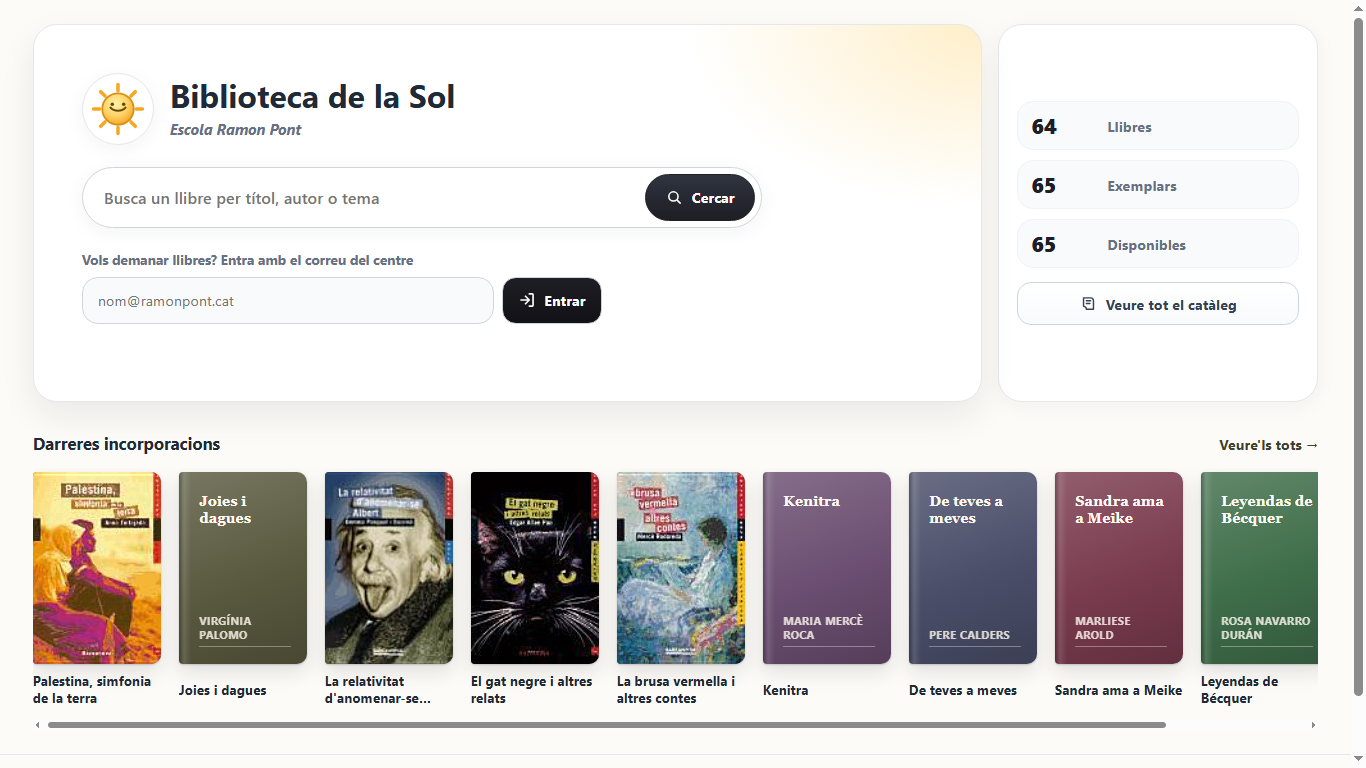
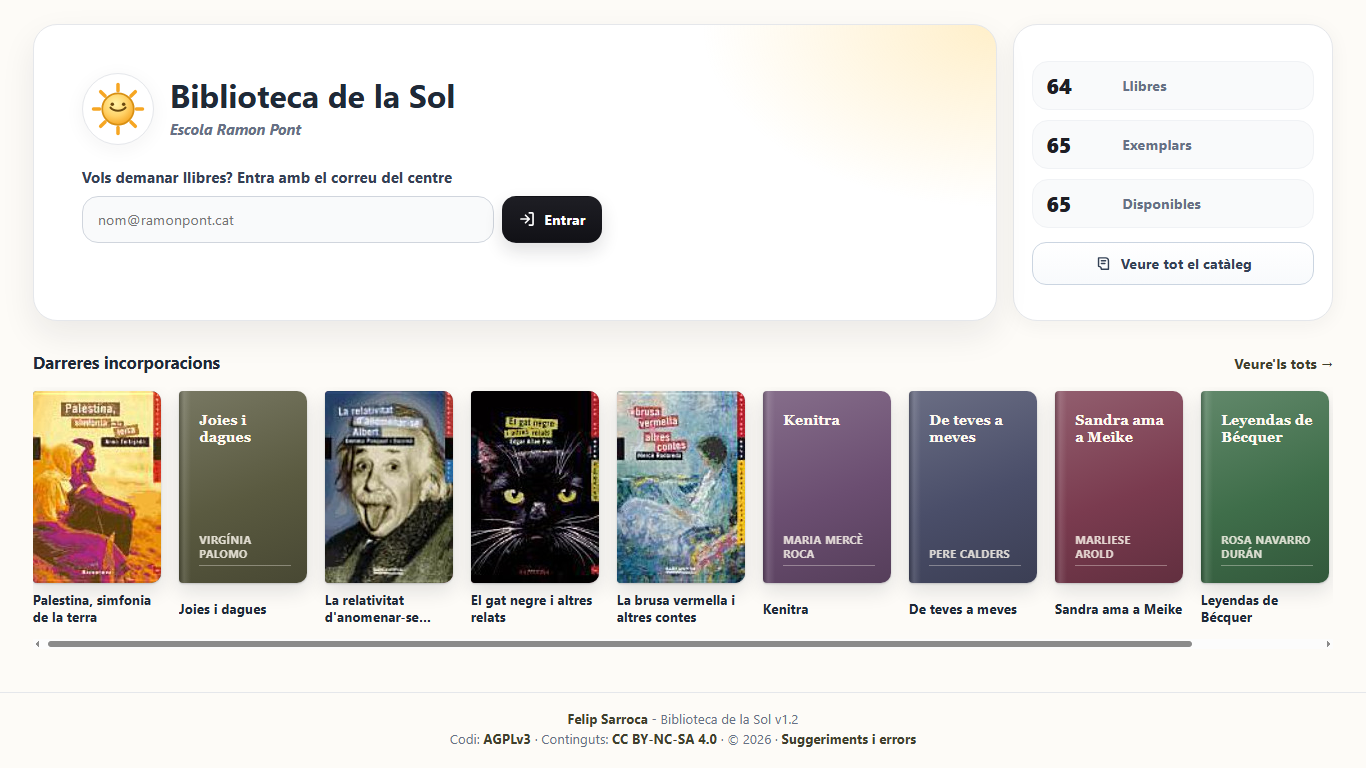
Biblioteca de la Sol v1.2: portada sense cercador, amb l'accés com a acció principal

diff --git a/BibliotecaSol/index.html b/BibliotecaSol/index.html
@@ -5,11 +5,11 @@
     <meta name="viewport" content="width=device-width, initial-scale=1">
     <title>Biblioteca de la Sol - Escola Ramon Pont</title>
     <link rel="icon" href="assets/logo-sol.svg" type="image/svg+xml">
-    <link rel="stylesheet" href="css/styles.css?v=1.1">
-    <script src="js/config.js?v=1.1" defer></script>
-    <script src="js/supabaseClient.js?v=1.1" defer></script>
-    <script src="js/shared.js?v=1.1" defer></script>
-    <script src="js/cataleg.js?v=1.1" defer></script>
+    <link rel="stylesheet" href="css/styles.css?v=1.2">
+    <script src="js/config.js?v=1.2" defer></script>
+    <script src="js/supabaseClient.js?v=1.2" defer></script>
+    <script src="js/shared.js?v=1.2" defer></script>
+    <script src="js/cataleg.js?v=1.2" defer></script>
   </head>
   <body class="home-page">
     <main class="home-shell">
@@ -23,17 +23,11 @@
             </div>
           </div>
 
-          <form id="home-search" class="home-search" role="search">
-            <label for="home-search-input" class="visually-hidden">Cerca un llibre</label>
-            <input id="home-search-input" name="q" type="search" autocomplete="off" placeholder="Busca un llibre per títol, autor o tema">
-            <button class="button icon-search" type="submit">Cercar</button>
-          </form>
-
           <form id="home-login-form" class="home-login-form">
             <label for="home-email">Vols demanar llibres? Entra amb el correu del centre</label>
             <div class="search-row">
               <input id="home-email" name="email" type="email" autocomplete="email" required placeholder="nom@ramonpont.cat">
-              <button class="button button-secondary icon-login" type="submit">Entrar</button>
+              <button class="button icon-login" type="submit">Entrar</button>
             </div>
             <p id="home-login-message" class="form-message" role="status"></p>
           </form>
@@ -68,7 +62,7 @@
     </main>
 
     <footer class="site-footer">
-      <p><a href="https://ja.cat/felipsarroca">Felip Sarroca</a> - Biblioteca de la Sol v1.1</p>
+      <p><a href="https://ja.cat/felipsarroca">Felip Sarroca</a> - Biblioteca de la Sol v1.2</p>
       <p>Codi: <a href="https://github.com/felipsarroca/util-apps/blob/main/BibliotecaSol/LICENSE.txt" rel="noopener">AGPLv3</a> · Continguts: <a href="https://creativecommons.org/licenses/by-nc-sa/4.0/deed.ca" rel="noopener">CC BY-NC-SA 4.0</a> · © 2026 · <a href="https://github.com/felipsarroca/util-apps/issues/new?template=biblioteca-sol.yml" rel="noopener">Suggeriments i errors</a></p>
     </footer>
   </body>

diff --git a/BibliotecaSol/editor.html b/BibliotecaSol/editor.html
@@ -5,11 +5,11 @@
     <meta name="viewport" content="width=device-width, initial-scale=1">
     <title>Gestió - Biblioteca de la Sol</title>
     <link rel="icon" href="assets/logo-sol.svg" type="image/svg+xml">
-    <link rel="stylesheet" href="css/styles.css?v=1.1">
-    <script src="js/config.js?v=1.1" defer></script>
-    <script src="js/supabaseClient.js?v=1.1" defer></script>
-    <script src="js/shared.js?v=1.1" defer></script>
-    <script src="js/editor.js?v=1.1" defer></script>
+    <link rel="stylesheet" href="css/styles.css?v=1.2">
+    <script src="js/config.js?v=1.2" defer></script>
+    <script src="js/supabaseClient.js?v=1.2" defer></script>
+    <script src="js/shared.js?v=1.2" defer></script>
+    <script src="js/editor.js?v=1.2" defer></script>
   </head>
   <body data-requires-manager="true">
     <header class="site-header">
@@ -271,7 +271,7 @@
     </dialog>
 
     <footer class="site-footer">
-      <p><a href="https://ja.cat/felipsarroca">Felip Sarroca</a> - Biblioteca de la Sol v1.1</p>
+      <p><a href="https://ja.cat/felipsarroca">Felip Sarroca</a> - Biblioteca de la Sol v1.2</p>
       <p>Codi: <a href="https://github.com/felipsarroca/util-apps/blob/main/BibliotecaSol/LICENSE.txt" rel="noopener">AGPLv3</a> · Continguts: <a href="https://creativecommons.org/licenses/by-nc-sa/4.0/deed.ca" rel="noopener">CC BY-NC-SA 4.0</a> · © 2026 · <a href="https://github.com/felipsarroca/util-apps/issues/new?template=biblioteca-sol.yml" rel="noopener">Suggeriments i errors</a></p>
     </footer>
   </body>

diff --git a/BibliotecaSol/cataleg.html b/BibliotecaSol/cataleg.html
@@ -5,11 +5,11 @@
     <meta name="viewport" content="width=device-width, initial-scale=1">
     <title>Catàleg - Biblioteca de la Sol</title>
     <link rel="icon" href="assets/logo-sol.svg" type="image/svg+xml">
-    <link rel="stylesheet" href="css/styles.css?v=1.1">
-    <script src="js/config.js?v=1.1" defer></script>
-    <script src="js/supabaseClient.js?v=1.1" defer></script>
-    <script src="js/shared.js?v=1.1" defer></script>
-    <script src="js/cataleg.js?v=1.1" defer></script>
+    <link rel="stylesheet" href="css/styles.css?v=1.2">
+    <script src="js/config.js?v=1.2" defer></script>
+    <script src="js/supabaseClient.js?v=1.2" defer></script>
+    <script src="js/shared.js?v=1.2" defer></script>
+    <script src="js/cataleg.js?v=1.2" defer></script>
   </head>
   <body>
     <header class="site-header">
@@ -102,7 +102,7 @@
     </main>
 
     <footer class="site-footer">
-      <p><a href="https://ja.cat/felipsarroca">Felip Sarroca</a> - Biblioteca de la Sol v1.1</p>
+      <p><a href="https://ja.cat/felipsarroca">Felip Sarroca</a> - Biblioteca de la Sol v1.2</p>
       <p>Codi: <a href="https://github.com/felipsarroca/util-apps/blob/main/BibliotecaSol/LICENSE.txt" rel="noopener">AGPLv3</a> · Continguts: <a href="https://creativecommons.org/licenses/by-nc-sa/4.0/deed.ca" rel="noopener">CC BY-NC-SA 4.0</a> · © 2026 · <a href="https://github.com/felipsarroca/util-apps/issues/new?template=biblioteca-sol.yml" rel="noopener">Suggeriments i errors</a></p>
     </footer>
   </body>

diff --git a/BibliotecaSol/login.html b/BibliotecaSol/login.html
@@ -5,11 +5,11 @@
     <meta name="viewport" content="width=device-width, initial-scale=1">
     <title>Accés - Biblioteca de la Sol</title>
     <link rel="icon" href="assets/logo-sol.svg" type="image/svg+xml">
-    <link rel="stylesheet" href="css/styles.css?v=1.1">
-    <script src="js/config.js?v=1.1" defer></script>
-    <script src="js/supabaseClient.js?v=1.1" defer></script>
-    <script src="js/shared.js?v=1.1" defer></script>
-    <script src="js/auth.js?v=1.1" defer></script>
+    <link rel="stylesheet" href="css/styles.css?v=1.2">
+    <script src="js/config.js?v=1.2" defer></script>
+    <script src="js/supabaseClient.js?v=1.2" defer></script>
+    <script src="js/shared.js?v=1.2" defer></script>
+    <script src="js/auth.js?v=1.2" defer></script>
   </head>
   <body>
     <header class="site-header">
@@ -73,7 +73,7 @@
     </main>
 
     <footer class="site-footer">
-      <p><a href="https://ja.cat/felipsarroca">Felip Sarroca</a> - Biblioteca de la Sol v1.1</p>
+      <p><a href="https://ja.cat/felipsarroca">Felip Sarroca</a> - Biblioteca de la Sol v1.2</p>
       <p>Codi: <a href="https://github.com/felipsarroca/util-apps/blob/main/BibliotecaSol/LICENSE.txt" rel="noopener">AGPLv3</a> · Continguts: <a href="https://creativecommons.org/licenses/by-nc-sa/4.0/deed.ca" rel="noopener">CC BY-NC-SA 4.0</a> · © 2026 · <a href="https://github.com/felipsarroca/util-apps/issues/new?template=biblioteca-sol.yml" rel="noopener">Suggeriments i errors</a></p>
     </footer>
   </body>

diff --git a/BibliotecaSol/css/styles.css b/BibliotecaSol/css/styles.css
@@ -3047,49 +3047,13 @@ body.has-request-bar .toast {
   margin: 0;
 }
 
-.home-search {
-  max-width: 680px;
-  display: grid;
-  grid-template-columns: minmax(0, 1fr) auto;
-  gap: 8px;
-  padding: 6px;
-  border: 1px solid var(--line-strong);
-  border-radius: 999px;
-  background: #ffffff;
-  box-shadow: var(--shadow-soft);
-}
-
-.home-search input {
-  min-height: 46px;
-  border: 0;
-  background: transparent;
-  font-size: 1.02rem;
-  font-weight: 600;
-}
-
-.home-search input:focus {
-  box-shadow: none;
-}
-
-.home-search:focus-within {
-  border-color: transparent;
-  box-shadow: 0 0 0 3px rgba(255, 209, 102, 0.6);
-}
-
-.home-search .button {
-  border-radius: 999px;
-  padding-inline: 1.2rem;
-  background: linear-gradient(180deg, #2f3440, #1e1e24);
-  box-shadow: none;
-}
-
 .home-login-form {
   max-width: 520px;
 }
 
 .home-login-form label {
-  color: var(--muted);
-  font-size: 0.85rem;
+  color: #344054;
+  font-size: 0.95rem;
 }
 
 .home-hero .summary-panel {
@@ -3176,15 +3140,6 @@ body.has-request-bar .toast {
 @media (max-width: 640px) {
   .home-hero {
     margin-top: 14px;
-  }
-
-  .home-search {
-    border-radius: 18px;
-    grid-template-columns: 1fr;
-  }
-
-  .home-search .button {
-    border-radius: 14px;
   }
 
   .home-hero .stats-grid {

diff --git a/BibliotecaSol/js/cataleg.js b/BibliotecaSol/js/cataleg.js
@@ -23,15 +23,6 @@
     document.getElementById("stat-copies").textContent = stats.copies;
     document.getElementById("stat-available").textContent = stats.available;
 
-    const searchForm = document.getElementById("home-search");
-    if (searchForm) {
-      searchForm.addEventListener("submit", (event) => {
-        event.preventDefault();
-        const query = searchForm.elements.q.value.trim();
-        window.location.href = `cataleg.html?mode=public${query ? `&q=${encodeURIComponent(query)}` : ""}`;
-      });
-    }
-
     const strip = document.getElementById("home-new");
     if (strip) {
       const latest = [...books]

diff --git a/BibliotecaSol/js/config.js b/BibliotecaSol/js/config.js
@@ -2,5 +2,5 @@ window.BIBLIOTECA_SOL_CONFIG = {
   allowedEmailDomain: "@ramonpont.cat",
   supabaseUrl: "https://jqabmywmbvvlacpzujup.supabase.co",
   supabaseAnonKey: "eyJhbGciOiJIUzI1NiIsInR5cCI6IkpXVCJ9.eyJpc3MiOiJzdXBhYmFzZSIsInJlZiI6ImpxYWJteXdtYnZ2bGFjcHp1anVwIiwicm9sZSI6ImFub24iLCJpYXQiOjE3NzgwODEyNTcsImV4cCI6MjA5MzY1NzI1N30.i1y_hnJJbLz2qxg512Y8QYc5ICpGV4FaP3_dr7FmYYY",
-  appVersion: "1.1"
+  appVersion: "1.2"
 };

diff --git a/BibliotecaSol/js/shared.js b/BibliotecaSol/js/shared.js
@@ -525,7 +525,7 @@
     }
     if (!helpScript) {
       helpScript = document.createElement("script");
-      helpScript.src = "js/ajuda.js?v=1.1";
+      helpScript.src = "js/ajuda.js?v=1.2";
       helpScript.addEventListener("load", () => window.BibliotecaSolAjuda && window.BibliotecaSolAjuda.open());
       helpScript.addEventListener("error", () => {
         helpScript.remove();

diff --git a/BibliotecaSol/README.md b/BibliotecaSol/README.md
@@ -6,7 +6,7 @@ Aplicació web per gestionar i consultar el catàleg de la biblioteca escolar de
 
 | Portada | Catàleg |
 |---|---|
-| ![Portada amb cercador, accés amb el correu del centre i darreres incorporacions](captures/portada.png) | ![Catàleg amb portades, filtres amb recompte i ordenació](captures/cataleg.png) |
+| ![Portada amb l'accés amb el correu del centre i darreres incorporacions](captures/portada.png) | ![Catàleg amb portades, filtres amb recompte i ordenació](captures/cataleg.png) |
 
 | Fitxa d'un llibre | Catàleg al mòbil |
 |---|---|
@@ -40,7 +40,7 @@ L'app té tres maneres d'accedir-hi:
 
 | Perfil | Com hi entra | Què pot fer |
 |---|---|---|
-| **Visitant** | Cercador o botó *Veure tot el catàleg* de la portada | Consultar el catàleg, cercar, filtrar, obrir les fitxes i descarregar la llista en PDF. No pot demanar llibres. |
+| **Visitant** | Botó *Veure tot el catàleg* de la portada | Consultar el catàleg, cercar, filtrar, obrir les fitxes i descarregar la llista en PDF. No pot demanar llibres. |
 | **Lector** (alumnat i professorat) | Escriu el seu correu `@ramonpont.cat` a la portada. No cal contrasenya. | Tot el que fa el visitant i, a més, triar llibres i enviar-ne la sol·licitud de préstec. |
 | **Gestor** (biblioteca) | Correu `biblioteca@ramonpont.cat` i contrasenya | Pantalla de **Gestió**: alta, edició i baixa de llibres, sol·licituds, préstecs, retards, historial i ajuda integrada. |
 
@@ -48,7 +48,7 @@ L'app té tres maneres d'accedir-hi:
 
 ### Catàleg (tots els perfils)
 
-- **Portada** amb un cercador, els comptadors de llibres, exemplars i disponibles, i les **darreres incorporacions**.
+- **Portada** amb l'accés amb el correu del centre, els comptadors de llibres, exemplars i disponibles, i les **darreres incorporacions**.
 - **Cerca** simultània en el títol, l'autor, l'editorial, l'ISBN, la col·lecció, l'edat, la temàtica, el gènere, la ubicació i el resum.
 - **Filtres sempre visibles** (en un panell lateral, o en una safata al mòbil) per edat, gènere, llengua i temàtica, amb el nombre de llibres de cada opció, i l'interruptor *Només disponibles*. Els filtres actius es veuen com a etiquetes que es poden treure d'una en una.
 - **Dues vistes:** *Portades* (quadrícula) i *Llista* (taula compacta amb edat, gènere, llengua, estat i ubicació). L'app recorda la darrera triada.
@@ -119,7 +119,7 @@ Tots els correus surten del compte **biblioteca@ramonpont.cat** mitjançant l'Ap
 
 | Fitxer o carpeta | Funció |
 |---|---|
-| `index.html` | Portada: cercador, accés amb el correu del centre, comptadors i darreres incorporacions. |
+| `index.html` | Portada: accés amb el correu del centre, comptadors i darreres incorporacions. |
 | `cataleg.html` | Catàleg amb cerca, filtres, vistes de portades i llista, fitxa, ordenació, PDF i selecció de llibres. |
 | `editor.html` | Gestió: formulari d'alta, llista d'edició, préstec ràpid i pestanyes de circulació. |
 | `login.html` | Pàgina d'accés alternativa (lector i gestor). |
@@ -237,6 +237,7 @@ Per publicar canvis del frontend n'hi ha prou amb fer *commit* i *push* a `main`
 | Data | Canvis |
 |---|---|
 | Maig de 2026 | Primera versió: catàleg, accés per correu, gestió, sol·licituds, préstecs, devolucions i avisos. |
+| 11/11/2026 · v1.2 | Portada més neta: sense el cercador (el catàleg ja en té); l'accés amb el correu i el botó *Veure tot el catàleg* són les dues accions principals. |
 | 10/11/2026 (4) · v1.1 | Nou disseny del catàleg: portades, vista de llista alineada, fitxa del llibre, filtres laterals amb recompte (també per llengua), etiquetes de filtres actius i safata de filtres al mòbil. Portada amb cercador i darreres incorporacions. Gestió: préstec ràpid, botó *Prestar*, llista compacta, disponibles calculats a la base de dades (`cover_url` i disparador a `supabase/2026-11-10_portades_i_disponibles.sql`), confirmacions i avisos breus. Textos amb accents també als missatges de la base de dades. Revisió de les dades del catàleg (faltes, editorials, llengües i portades). Versions als fitxers per evitar memòries cau antigues. |
 | 10/11/2026 (3) | Correus operatius des de biblioteca@ramonpont.cat amb un Apps Script propi. Funcions de correu tornades a publicar. |
 | 10/11/2026 (2) | Seguretat: el gestor entra només amb Supabase Auth, fora la contrasenya i el botó de prova del codi, sessió que es renova sola, i lectura de les dades personals restringida al gestor. |
